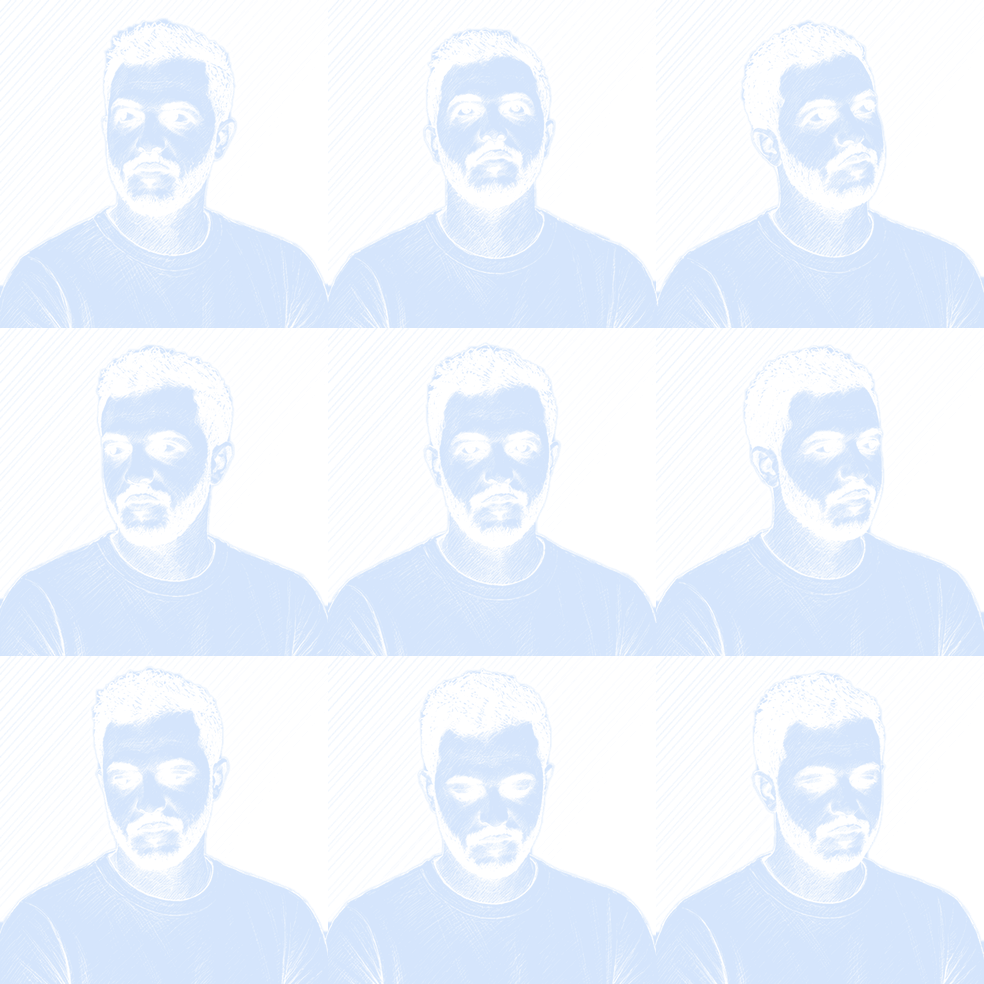
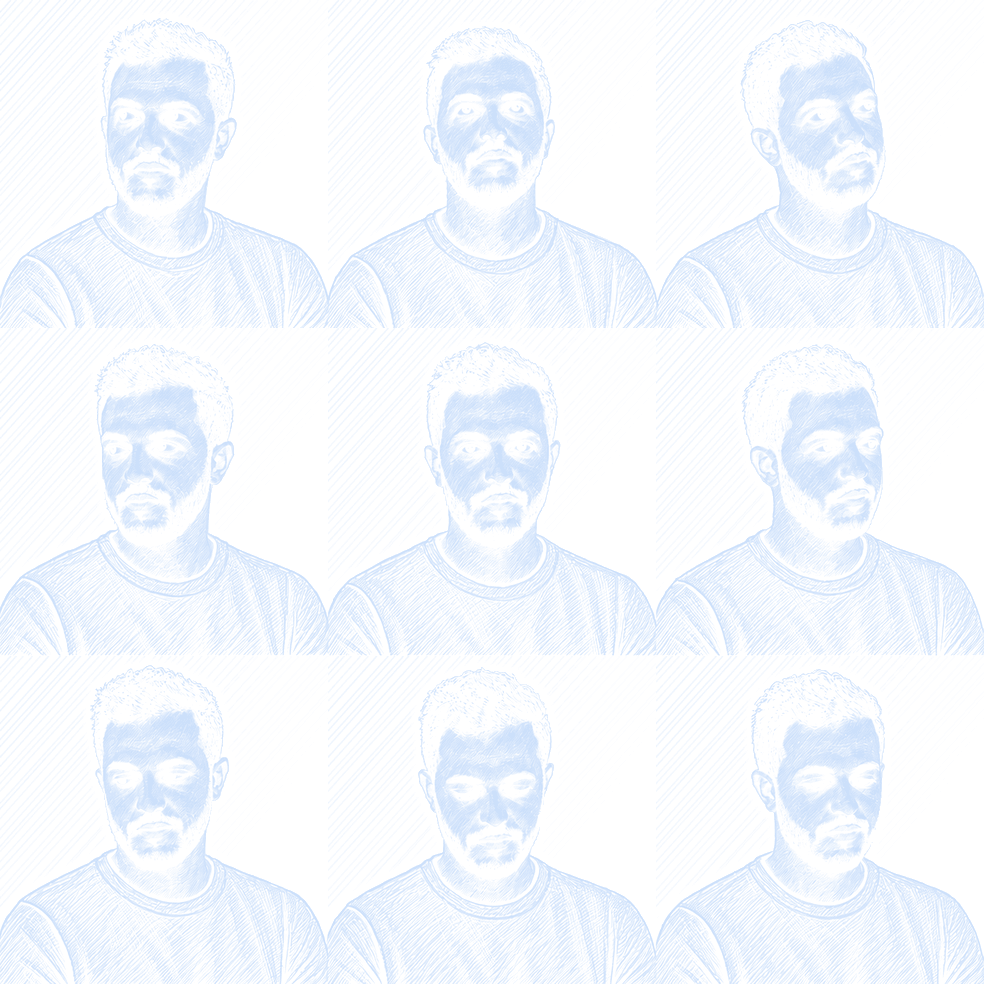
Redraw the dark portrait in white ink
The dark sheet was the light drawing inverted, so blank paper became a flat
pale fill and the face read like a photo negative. It is now its own
white-ink drawing on the night paper: the light drawn in pale strokes, hair
and shadows left dark. Same nine poses, framing and backdrop hatching.

Changed region(s): [[0.0, 0.8537, 1.0, 1.0], [0.0, 0.5488, 1.0, 0.6707], [0.0, 0.2134, 1.0, 0.3354]]

diff --git a/components/portrait.tsx b/components/portrait.tsx
@@ -39,8 +39,8 @@ function ensureModule() {
  * mask with the backdrop hatching baked in and knocked out around the figure,
  * so nothing ever shows through the face.
  *
- * Each theme has its own sheet: blue ink on the paper by day, a moonlit
- * duotone by night (figure lit in pale ink, pen strokes left dark). Both live
+ * Each theme has its own sheet: blue ink on the paper by day, white ink on
+ * the night paper (the light drawn in, hair and shadows left dark). Both live
  * in the same box and follow the same cursor, so theme CSS can swap them
  * instantly, inside the ink-blot transition. The inactive one loads at idle.
  *

diff --git a/README.md b/README.md
@@ -52,8 +52,9 @@ Next.js ISR and degrade silently to empty values if unavailable.
 - `public/avatar/ink/sheet-{light,dark}.webp` — the `<cursor-avatar>` portrait:
   nine ballpoint poses redrawn from the original photo sheet, stored as ink
   masks with the backdrop hatching baked in and knocked out around the figure,
-  so nothing shows through the face. Light is blue ink on paper; dark is a
-  moonlit duotone (figure lit in pale ink, strokes left dark). Both follow the
+  so nothing shows through the face. Light is blue ink on paper; dark is its
+  own white-ink drawing on the night paper (the light drawn in pale strokes,
+  hair and shadows left as paper). Both follow the
   cursor together and theme CSS picks one. `still-*.webp` are the centre pose,
   rendered on the server until the sheets load.
 - `public/paper.svg` — the seamless paper tile (tooth, fibres, specks).
